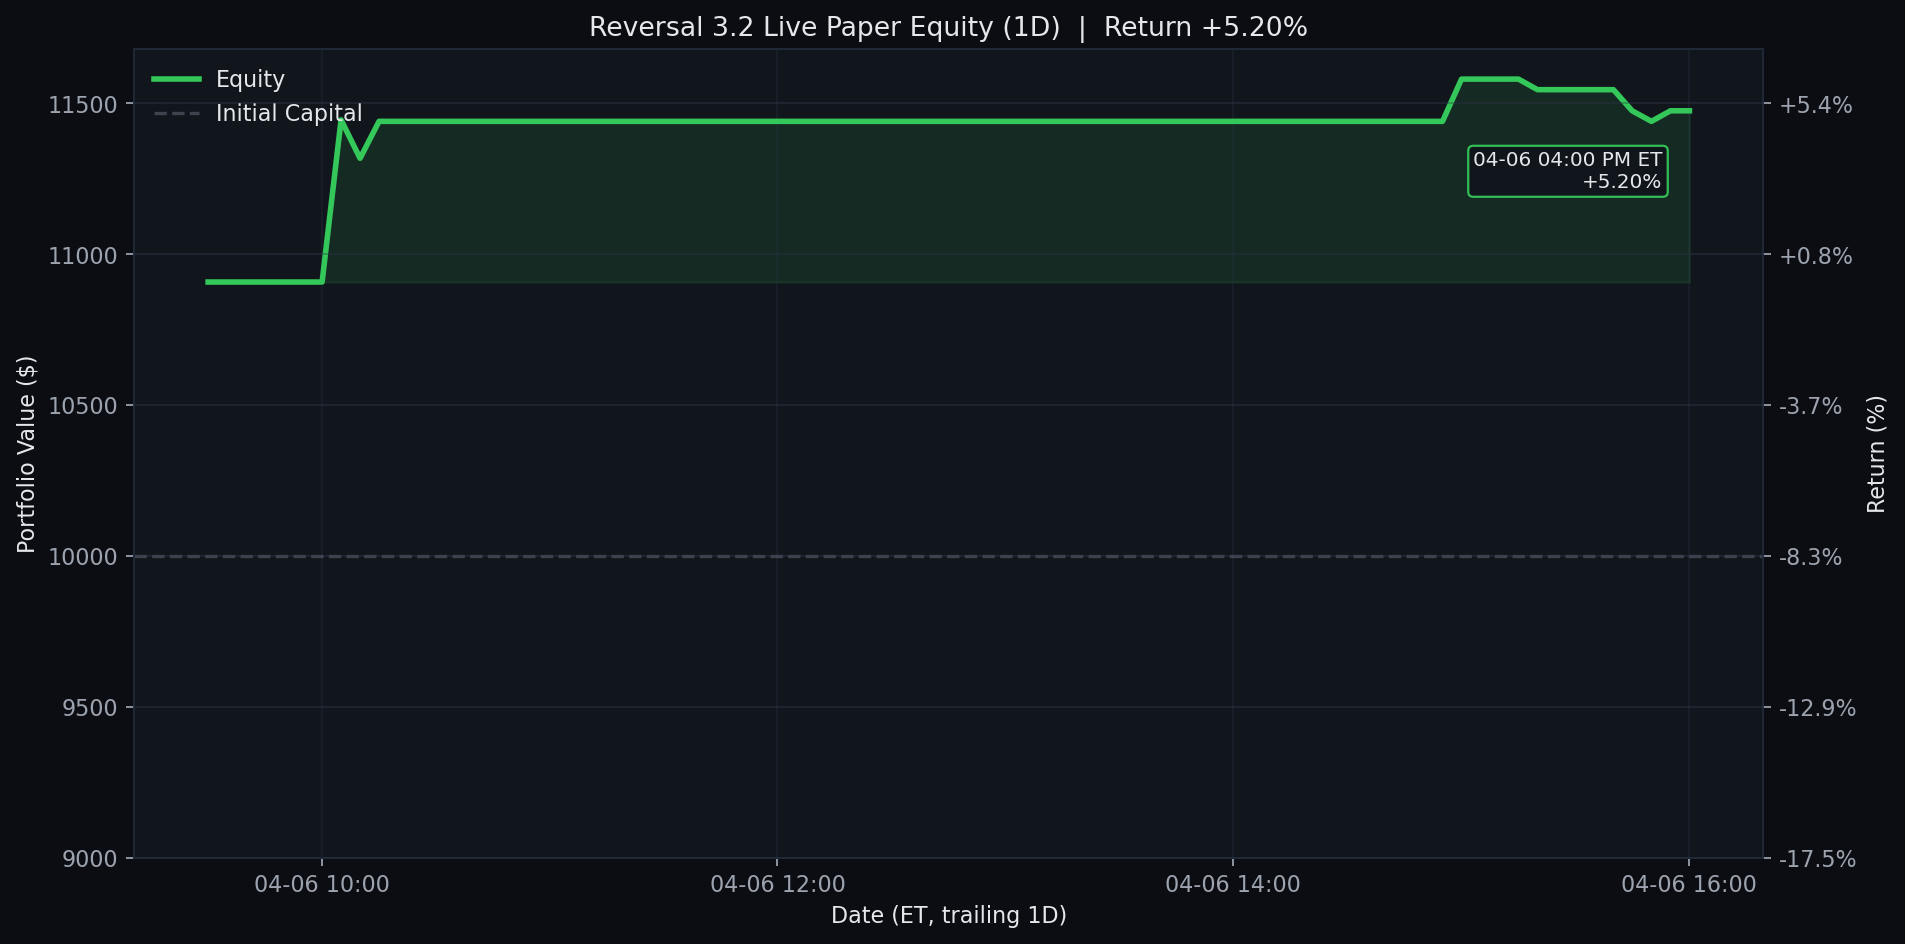
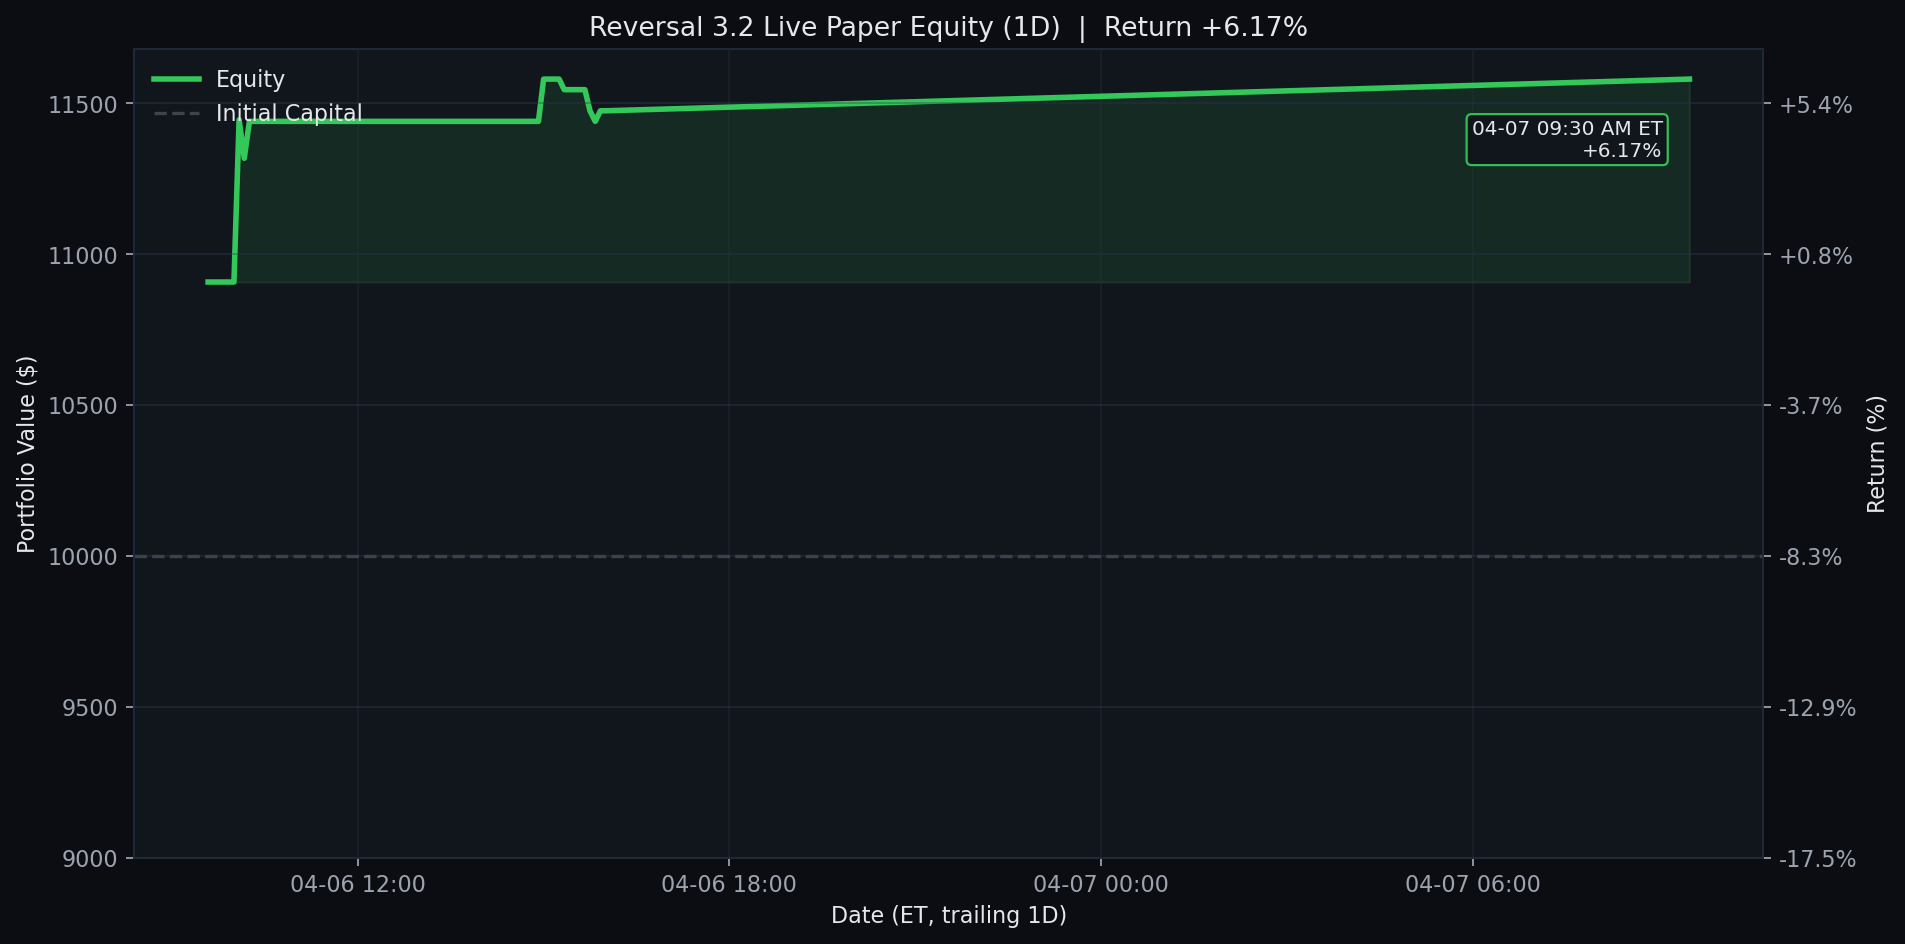
Update Reversal 3.2 live paper test 2026-04-07 09:30 ET

diff --git a/results/reversal_3_2_live/README.md b/results/reversal_3_2_live/README.md
@@ -1,7 +1,7 @@
 # Reversal 3.2 Live Paper Test
 
-Last updated (ET): `2026-04-06 16:00:05 EDT`
-Last processed slot: `manage_1600`
+Last updated (ET): `2026-04-07 09:30:05 EDT`
+Last processed slot: `manage_0930`
 
 ## Active Configuration
 
@@ -20,57 +20,54 @@ Last processed slot: `manage_1600`
 ## Portfolio Snapshot
 
 - Cash: `$6,260.00`
-- Equity: `$11,475.00`
+- Equity: `$11,580.00`
 - Realized PnL: `$1,440.00`
-- Unrealized PnL: `$35.00`
+- Unrealized PnL: `$140.00`
 - Open positions: `1`
 
 ## Open Positions
 
 ```text
 ticker    contract_symbol entry_trade_date  business_days_held  contracts  cash_spent  current_position_value  entry_option_price  current_option_price  entry_spot  current_spot  unrealized_pnl  unrealized_return_pct  success_rate  matched_signals  current_drop_pct  entry_iv_pct  current_iv_pct  rolling_sigma_20d_pct
-   HON HON260515C00230000       2026-04-06                   0          7      5180.0                  5215.0                 7.4                  7.45      227.61        228.21            35.0                   0.68         100.0               20               0.8         28.89           28.31                  20.57
+   HON HON260515C00230000       2026-04-06                   1          7      5180.0                  5320.0                 7.4                   7.6      227.61        225.75           140.0                    2.7         100.0               20               0.8         28.89            1.56                  20.57
 ```
 
-## Today's Closed Trades (2026-04-06)
+## Today's Closed Trades (2026-04-07)
 
-```text
-ticker    contract_symbol entry_trade_date_et exit_trade_date_et  entry_option_price  exit_option_price   pnl  return_pct                  exit_reason
-   WDC WDC260501C00295000          2026-04-02         2026-04-06              27.425             33.375 595.0   21.695533 take_profit_day1_hit_at_scan
-```
+_None_
 
 ## Current Screener Snapshot
 
 ```text
 ticker  success_rate_%  matched_signals  current_drop_%  target_rebound_$  target_price  rolling_sigma_20d_%  call_candidate
-   HON          100.00               24            0.54              0.87        229.08                20.57            True
-  FAST           88.46               26            0.99              0.32         46.16                21.85            True
-   EXC           87.50               16            0.75              0.26         49.22                21.30            True
-  ASML           87.10               31            1.00              9.25       1313.26                51.28            True
-   LIN           86.96               23            0.62              2.19        501.66                19.40            True
-  TSLA           85.00               20            2.16              5.45        358.25                42.35            True
-  VRTX           84.85               33            1.01              3.09        437.39                40.20            True
-  PANW           80.49               41            0.77              0.88        162.83                41.77            True
-  DDOG           80.00               20            3.21              2.70        119.20                49.88            True
-  CTAS           80.00               15            1.52              1.86        173.54                28.60            True
- CMCSA          100.00                8            0.97              0.19         27.85                25.15           False
-   AEP           93.75               32            0.24              0.22        132.58                17.01           False
+   HON          100.00               16            1.05              1.67        227.49                20.19            True
+   WDC           97.44               39            0.78              1.67        303.43                83.06            True
+  REGN           97.14               35            0.69              3.71        761.45                25.24            True
+  MRVL           96.30               27            1.79              1.37        108.92                70.84            True
+  NVDA           92.00               25            1.32              1.64        176.94                33.70            True
+  MPWR           91.89               37            0.58              4.79       1177.98                51.99            True
+  CDNS           90.91               44            0.71              1.39        278.80                25.26            True
+   WMT           90.48               21            1.01              0.90        126.41                17.13            True
+  UPRO           90.32               31            1.35              0.95        100.35                53.86            True
+  ASML           88.24               34            0.81              7.36       1300.86                47.16            True
+   BKR           88.24               34            0.54              0.23         60.60                40.15            True
+  PLTR           87.80               41            0.53              0.55        147.69                48.99            True
 ```
 
 ## Recent Events
 
 ```text
-                    timestamp_et        slot   event_type                                                                                                                                                                        detail
-2026-04-06T16:00:05.887844-04:00 manage_1600 slot_skipped                                                                                                                                               {"reason": "already_processed"}
-2026-04-06T15:55:05.885666-04:00 manage_1600 slot_skipped                                                                                                                                               {"reason": "already_processed"}
-2026-04-06T15:40:05.890163-04:00 manage_1530 slot_skipped                                                                                                                                               {"reason": "already_processed"}
-2026-04-06T15:35:05.886061-04:00 manage_1530 slot_skipped                                                                                                                                               {"reason": "already_processed"}
-2026-04-06T15:30:05.882298-04:00 manage_1530 slot_skipped                                                                                                                                               {"reason": "already_processed"}
-2026-04-06T15:25:05.886761-04:00 manage_1530 slot_skipped                                                                                                                                               {"reason": "already_processed"}
-2026-04-06T15:10:05.888760-04:00  entry_1500 slot_skipped                                                                                                                                               {"reason": "already_processed"}
-2026-04-06T15:00:05.880499-04:00  entry_1500 slot_skipped                                                                                                                                               {"reason": "already_processed"}
-2026-04-06T14:55:05.887845-04:00  entry_1500 slot_skipped                                                                                                                                               {"reason": "already_processed"}
-2026-04-06T14:50:05.889227-04:00  entry_1500        entry {"allocated_cash": 5180.0, "contract_symbol": "HON260515C00230000", "contracts": 7, "entry_option_price": 7.4, "matched_signals": 20, "success_rate": 100.0, "ticker": "HON"}
+                    timestamp_et         slot   event_type                          detail
+2026-04-07T09:30:05.896974-04:00 data_refresh data_refresh                   {'saved': 99}
+2026-04-06T16:00:05.887844-04:00  manage_1600 slot_skipped {"reason": "already_processed"}
+2026-04-06T15:55:05.885666-04:00  manage_1600 slot_skipped {"reason": "already_processed"}
+2026-04-06T15:40:05.890163-04:00  manage_1530 slot_skipped {"reason": "already_processed"}
+2026-04-06T15:35:05.886061-04:00  manage_1530 slot_skipped {"reason": "already_processed"}
+2026-04-06T15:30:05.882298-04:00  manage_1530 slot_skipped {"reason": "already_processed"}
+2026-04-06T15:25:05.886761-04:00  manage_1530 slot_skipped {"reason": "already_processed"}
+2026-04-06T15:10:05.888760-04:00   entry_1500 slot_skipped {"reason": "already_processed"}
+2026-04-06T15:00:05.880499-04:00   entry_1500 slot_skipped {"reason": "already_processed"}
+2026-04-06T14:55:05.887845-04:00   entry_1500 slot_skipped {"reason": "already_processed"}
 ```
 
 ## Equity Curves
@@ -80,20 +77,20 @@ Each chart is generated from the same live equity series with no-lookahead marks
 <details>
 <summary><strong>1D</strong></summary>
 
-![Reversal 3.2 Live Equity 1D](../../assets/reversal_3_2_live_equity_1d.png?v=20260406160005)
+![Reversal 3.2 Live Equity 1D](../../assets/reversal_3_2_live_equity_1d.png?v=20260407093005)
 
 </details>
 
 <details open>
 <summary><strong>1W</strong></summary>
 
-![Reversal 3.2 Live Equity 1W](../../assets/reversal_3_2_live_equity.png?v=20260406160005)
+![Reversal 3.2 Live Equity 1W](../../assets/reversal_3_2_live_equity.png?v=20260407093005)
 
 </details>
 
 <details>
 <summary><strong>1M</strong></summary>
 
-![Reversal 3.2 Live Equity 1M](../../assets/reversal_3_2_live_equity_1m.png?v=20260406160005)
+![Reversal 3.2 Live Equity 1M](../../assets/reversal_3_2_live_equity_1m.png?v=20260407093005)
 
 </details>

diff --git a/README.md b/README.md
@@ -3,10 +3,10 @@
 <!-- reversal-3.2-live:start -->
 ## Reversal 3.2 Live Paper Test
 
-- Last updated (ET): `2026-04-06 16:00:05 EDT`
-- Equity: `$11,475.00` | Realized: `$1,440.00` | Unrealized: `$35.00` | Open positions: `1`
-- Today closed trades: `1`
-- Current slot: `manage_1600`
+- Last updated (ET): `2026-04-07 09:30:05 EDT`
+- Equity: `$11,580.00` | Realized: `$1,440.00` | Unrealized: `$140.00` | Open positions: `1`
+- Today closed trades: `0`
+- Current slot: `manage_0930`
 - Universe: `qqq_plus_leverage_etfs`
 - Chart windows: `1D / 1W / 1M` (default open panel: `1W`)
 
@@ -14,27 +14,27 @@
 
 ```text
 ticker    contract_symbol  contracts  cash_spent  current_position_value  current_option_price  unrealized_pnl  unrealized_return_pct  business_days_held
-   HON HON260515C00230000          7      5180.0                  5215.0                  7.45            35.0                   0.68                   0
+   HON HON260515C00230000          7      5180.0                  5320.0                   7.6           140.0                    2.7                   1
 ```
 
 <details>
 <summary><strong>1D</strong></summary>
 
-![Reversal 3.2 Live Equity 1D](assets/reversal_3_2_live_equity_1d.png?v=20260406160005)
+![Reversal 3.2 Live Equity 1D](assets/reversal_3_2_live_equity_1d.png?v=20260407093005)
 
 </details>
 
 <details open>
 <summary><strong>1W</strong></summary>
 
-![Reversal 3.2 Live Equity 1W](assets/reversal_3_2_live_equity.png?v=20260406160005)
+![Reversal 3.2 Live Equity 1W](assets/reversal_3_2_live_equity.png?v=20260407093005)
 
 </details>
 
 <details>
 <summary><strong>1M</strong></summary>
 
-![Reversal 3.2 Live Equity 1M](assets/reversal_3_2_live_equity_1m.png?v=20260406160005)
+![Reversal 3.2 Live Equity 1M](assets/reversal_3_2_live_equity_1m.png?v=20260407093005)
 
 </details>
 
